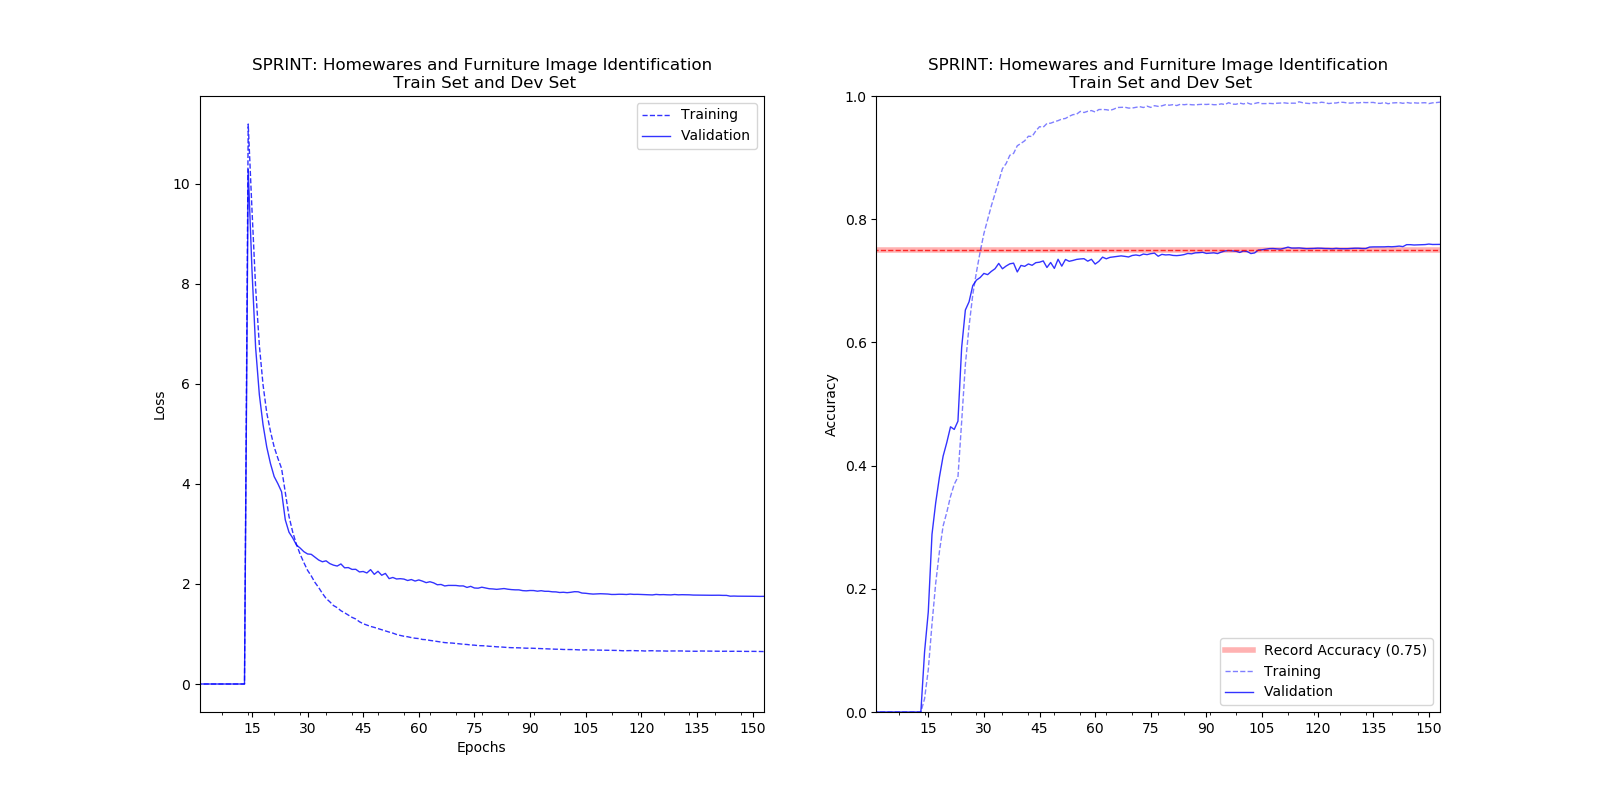
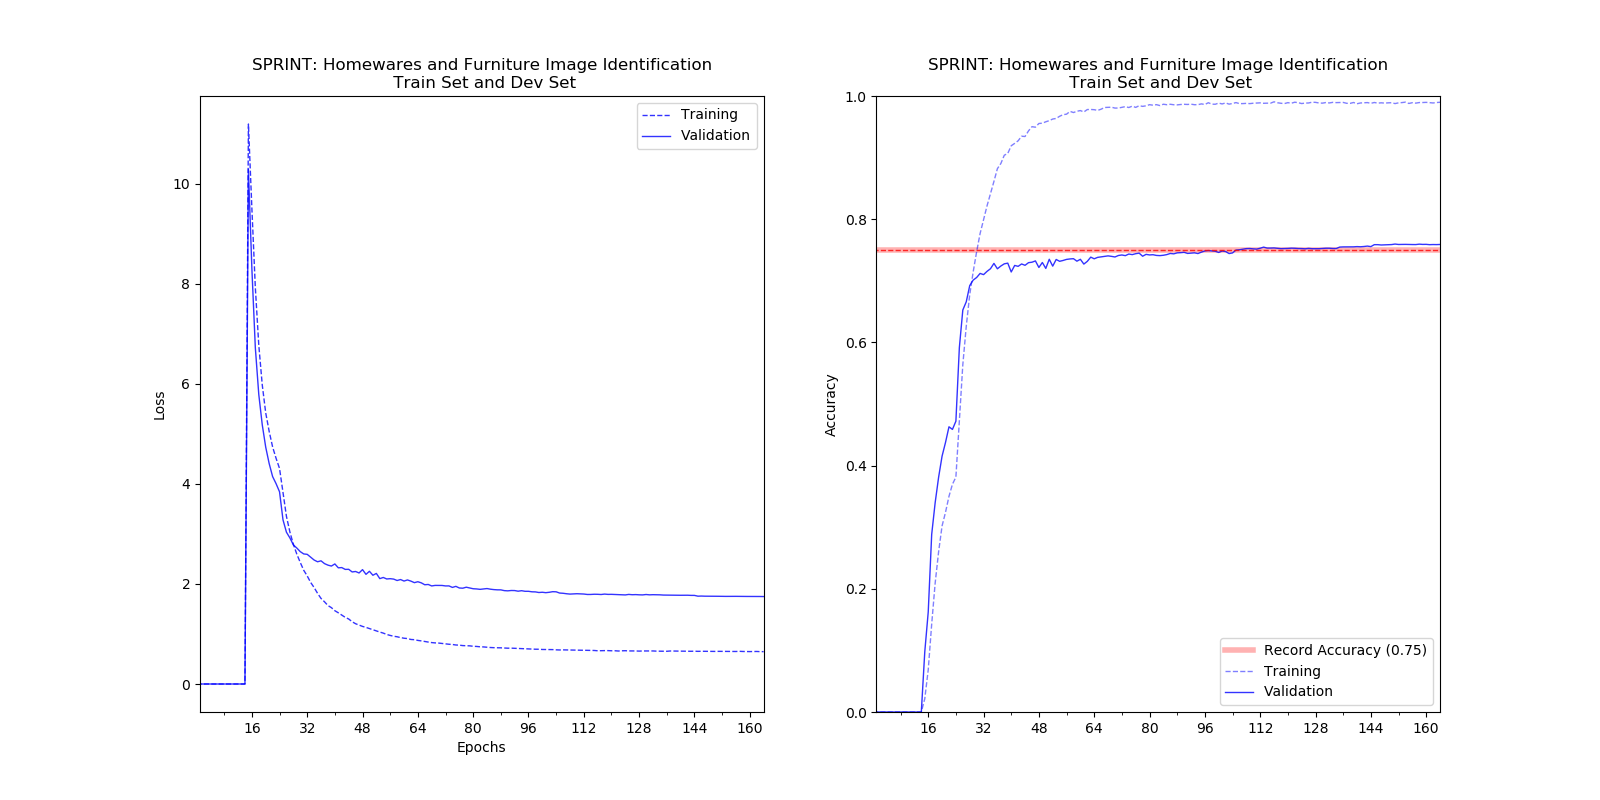
try learning rate annealing on model

diff --git a/src/model_falcon_v2.5.py b/src/model_falcon_v2.5.py
@@ -339,12 +339,12 @@ def run():
     with open("../data/data_splits.json") as infile:
         data_link_dict = json.load(infile)
 
-    EPOCHS = 10
+    EPOCHS = 5
     AUGMENTATION = 1    # could do 3 epochs of 10 augmentation or 30 of 1 which
                         # provides more data for plots to work with
 
-    MINITRAINS = 15
-    DO = 0.50  # drop out
+    MINITRAINS = 30
+    DO = 0.55  # drop out
 
     # for Adam inital LR of 0.0001 is a good starting point
     # for SGD initial LR of 0.001 is a good starting point
@@ -355,7 +355,7 @@ def run():
     # OPTIMIZER = SGD(lr=LR, momentum=0.9, nesterov=True)
 
     NB_IV3_LAYERS_TO_FREEZE = 172
-    MODEL_ID = 'v2_5m'
+    MODEL_ID = 'v2_5n'
 
     plot_file = "model_{:}.png".format(MODEL_ID)
     weights_file = "weights/model_{:}_weights.h5".format(MODEL_ID)
@@ -426,8 +426,10 @@ def run():
             history["val_loss"] = new_history.history["val_loss"]
 
         else:
+
+            temp_lr = 0.0005 / (10.0**(mt / 5 - (mt // 7.5)))
             # mini-train 2
-            OPTIMIZER = Adam(lr=LR / 1.5**temp, decay=DECAY)
+            OPTIMIZER = Adam(lr=temp_lr, decay=0.0)
             # try to fine tune some of the InceptionV3 layers also
             setup_to_finetune(model, NB_IV3_LAYERS_TO_FREEZE - (5 * temp), OPTIMIZER, L2_REG)
 
